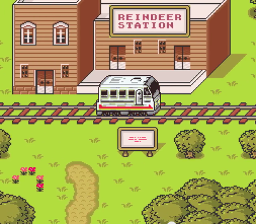
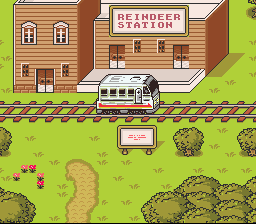
Made project buttons fancier, improved quality of Mother Remake screenshot

diff --git a/stylesheets/custom.css b/stylesheets/custom.css
@@ -4,29 +4,65 @@ img.screenshot {
   border-radius: 5px;
 }
 
-#project_grid a {
+#project_grid .project {
   width: 100%;
+  height: 100%;
 }
 
-#project_grid .project {
-  margin: 10px;
+#project_grid .project .project_button {
   position: relative;
   width: 256px;
-  height: 224px;
+  height: 112px;
+  margin: 4px auto 4px auto;
   border: 5px #b7b7b7 solid;
-  border-radius: 5px;
-  background-position: center;
+  border-radius: 30px;
 }
 
-#project_grid .project span {
-  padding: 10px;
+#project_grid .project .project_button:hover {
+  border-color: #b3b3b3;
+}
+
+#project_grid .project .project_button a {
+  display: block;
+  width: 100%;
+  height: 100%;
+}
+
+#project_grid .project .project_button span {
   position: absolute;
-  left: 0;
-  bottom: 10px;
-  background: rgb(0, 0, 0); /* fallback color */
-  background: rgba(0, 0, 0, 0.7);
-  color: white;
+  right: 0;
+  top: 0;
+  border-top: solid 1px #b7b7b7;
+  border-left: solid 1px #b3b3b3;
+  border-right: solid 1px #b3b3b3;
+  border-bottom: solid 1px #b3b3b3;
+  border-bottom-left-radius: 15px;
+  border-top-right-radius: 22px;
+  padding: 0.3em 0.5em 0.3em 0.6em;
+
+  background: #fdfdfd; /* Old browsers */
+  background: -moz-linear-gradient(top,  #fdfdfd 0%, #f2f2f2 100%); /* FF3.6+ */
+  background: -webkit-gradient(linear, left top, left bottom, color-stop(0%,#fdfdfd), color-stop(100%,#f2f2f2)); /* Chrome,Safari4+ */
+  background: -webkit-linear-gradient(top,  #fdfdfd 0%,#f2f2f2 100%); /* Chrome10+,Safari5.1+ */
+  background: -o-linear-gradient(top,  #fdfdfd 0%,#f2f2f2 100%); /* Opera 11.10+ */
+  background: -ms-linear-gradient(top,  #fdfdfd 0%,#f2f2f2 100%); /* IE10+ */
+  background: linear-gradient(top,  #fdfdfd 0%,#f2f2f2 100%); /* W3C */
+  filter: progid:DXImageTransform.Microsoft.gradient( startColorstr='#fdfdfd', endColorstr='#f2f2f2',GradientType=0 ); /* IE6-9 */
+
+  color: #303030;
+  font-weight: bold;
   text-shadow: none;
+}
+
+#project_grid .project .project_button:hover span {
+  background: #fafafa; /* Old browsers */
+  background: -moz-linear-gradient(top,  #fdfdfd 0%, #f6f6f6 100%); /* FF3.6+ */
+  background: -webkit-gradient(linear, left top, left bottom, color-stop(0%,#fdfdfd), color-stop(100%,#f6f6f6)); /* Chrome,Safari4+ */
+  background: -webkit-linear-gradient(top,  #fdfdfd 0%,#f6f6f6 100%); /* Chrome10+,Safari5.1+ */
+  background: -o-linear-gradient(top,  #fdfdfd 0%,#f6f6f6 100%); /* Opera 11.10+ */
+  background: -ms-linear-gradient(top,  #fdfdfd 0%,#f6f6f6 100%); /* IE10+ */
+  background: linear-gradient(top,  #fdfdfd 0%,#f6f6f6, 100%); /* W3C */
+  filter: progid:DXImageTransform.Microsoft.gradient( startColorstr='#fdfdfd', endColorstr='#f6f6f6',GradientType=0 ); /* IE6-9 */
 }
 
 h1, h2 {

diff --git a/_layouts/default.html b/_layouts/default.html
@@ -35,7 +35,7 @@
         <hr>
 
         <section id="main_content">
-          <img src="{{ page.featured-screenshot }}" class="screenshot">
+          <img src="{{ page.featured-screenshot }}" class="screenshot" />
             {{content}}
 
             {{page.projects-section | markdownify}}
@@ -43,11 +43,14 @@
                 <div class="pure-g-r">
                     {% for project in page.projects %}
                     <div class="pure-u-1-2">
-                        <a href="{{ project.url }}">
-                            <div class="project" style="background-image: url('{{ project.image }}');">
-                                <span>{{project.name}}</span>
+                        <div class="project">
+                            <div class="project_button"
+                                 style="background-image: url('{{ project.image }}'); background-position: {{ project.image-position-x}} {{project.image-position-y}};">
+                                <a href="{{ project.url }}">
+                                    <span>{{project.name}}</span>
+                                </a>
                             </div>
-                        </a>
+                        </div>
                     </div>
                     {% endfor %}
                 </div>

diff --git a/index.md b/index.md
@@ -9,15 +9,23 @@ projects-section: |
 projects:
 - name: MOTHER Remake
   image: images/screenshots/mother-remake.png
+  image-position-x: 0
+  image-position-y: 20%
   url: http://forum.starmen.net/forum/Community/PKHack/Mother-Remake/page/1/
 - name: Unearthed
   image: images/screenshots/unearthed.png
+  image-position-x: 0
+  image-position-y: 40%
   url: http://theworldissquare.com/unearthed/
-- name: Hallow's End
+- name: "Hallow's End"
   image: images/screenshots/hallows-end.png
+  image-position-x: 0
+  image-position-y: 20%
   url: http://hacks.lyros.net/portfolio/hallows-end/
 - name: Holiday Hex
   image: images/screenshots/holiday-hex.png
+  image-position-x: 0
+  image-position-y: 35%
   url: http://hacks.lyros.net/portfolio/holiday-hex/
 support-section: |
   ### Support or Contact
